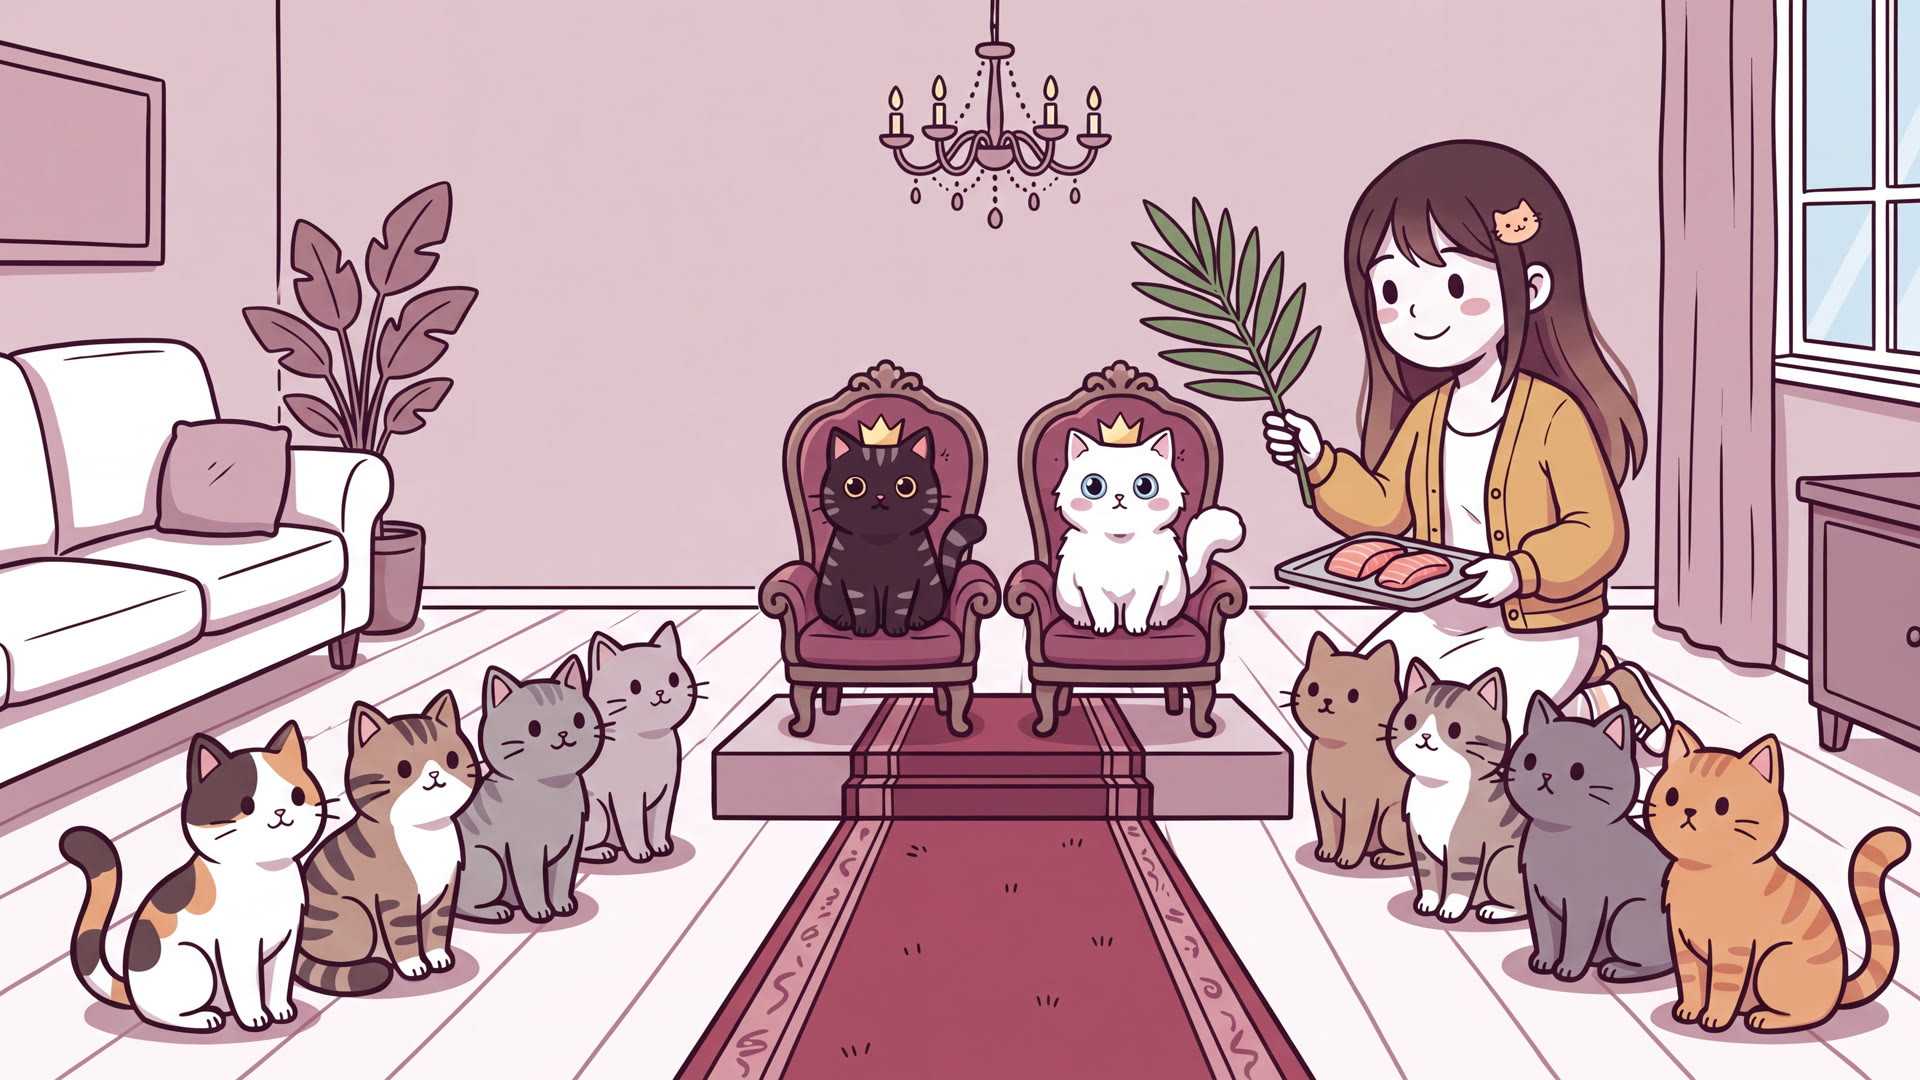
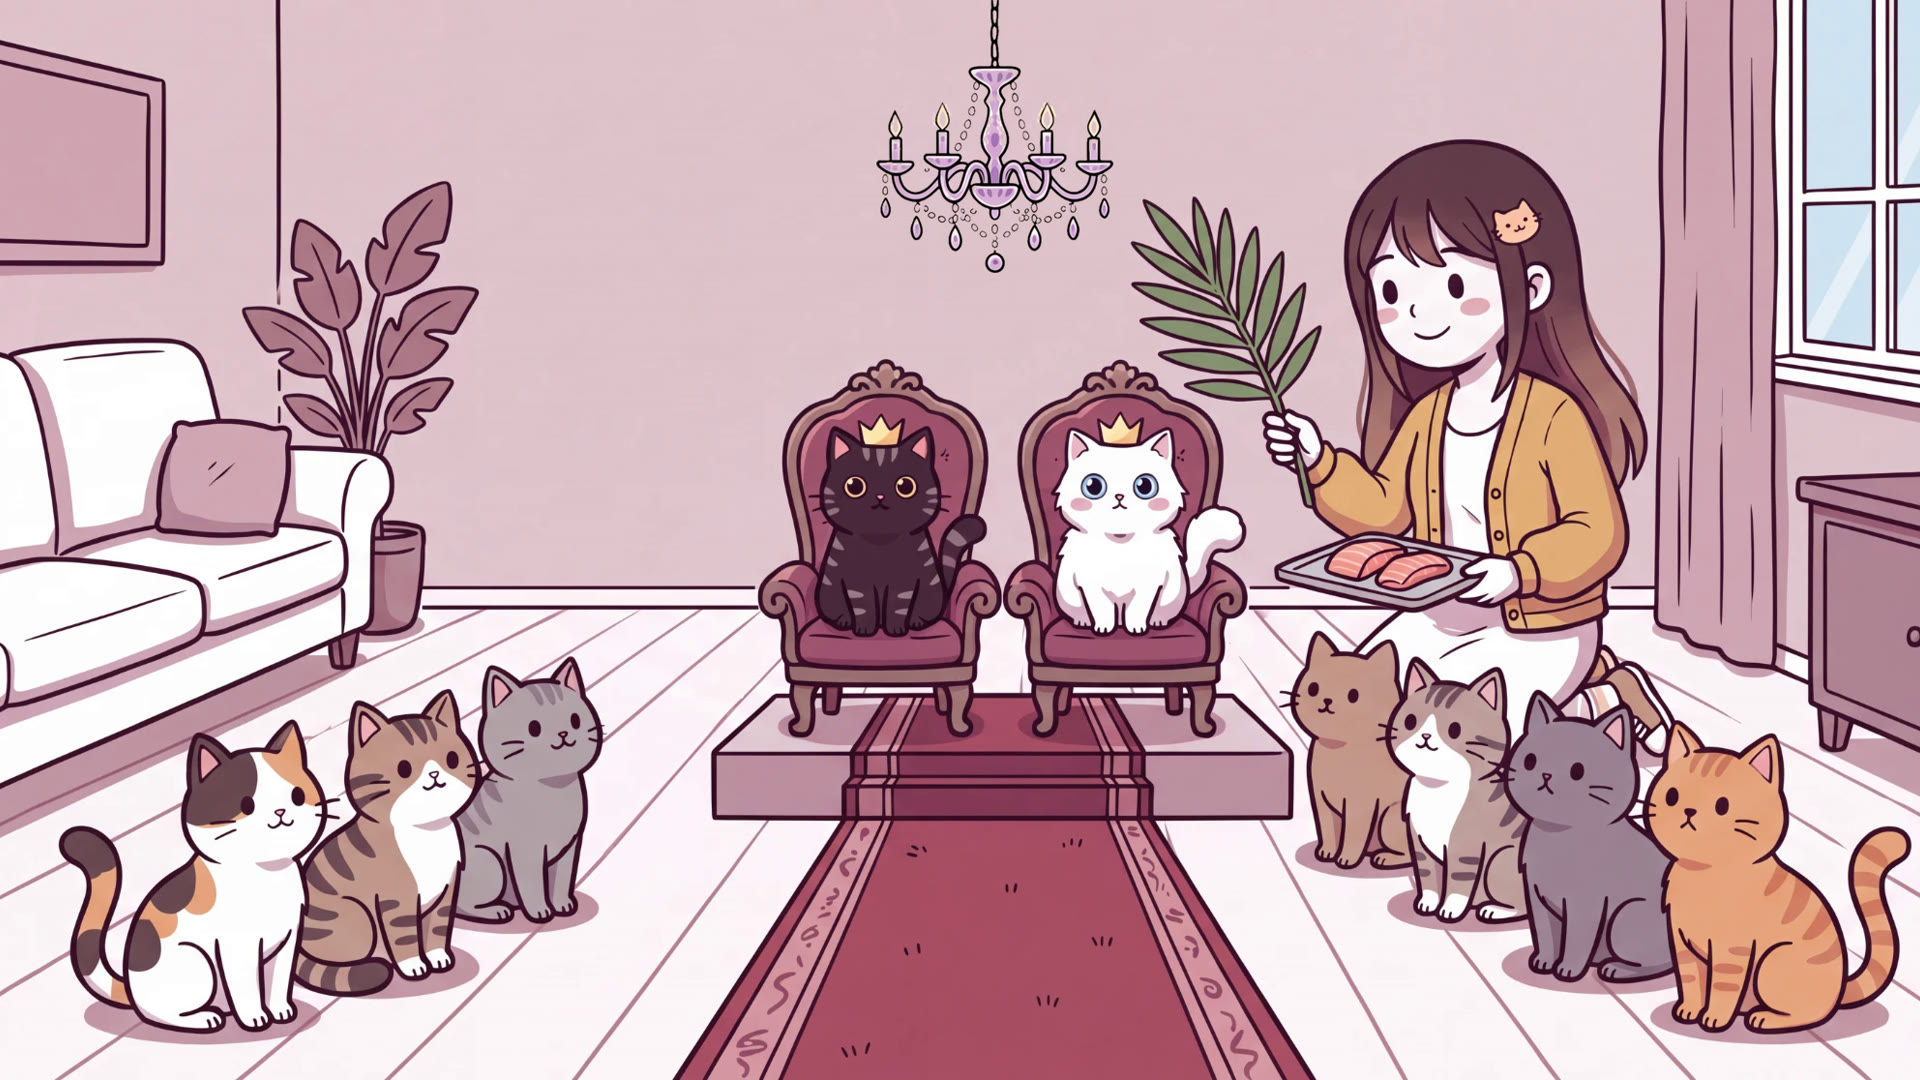
PC-04: seven-cat version with PC-05's crystal chandelier (local transplant, no credits); add tools/pc04_chandelier.py
Claude-Session: https://claude.ai/code/session_01Wfk5ePJ22LN7xs1AbjaDY5

Changed region(s): [[0.4375, 0.0, 0.5938, 0.2444], [0.2812, 0.5806, 0.375, 0.825]]

diff --git a/storyboard/tools/pc04_chandelier.py b/storyboard/tools/pc04_chandelier.py
@@ -1,0 +1,88 @@
+"""Give PC-04 the same chandelier as PC-05 (no Higgsfield credits).
+
+1. Cut PC-05's crystal chandelier out of its light cone: the cone behind it is rebuilt from a
+   clean row below the chandelier (the cone is a symmetric triangle, so each row is the same
+   profile scaled toward the apex), and the chandelier is whatever differs from that.
+2. Paint PC-04's own chandelier out of its flat wall (normalised blur of the surrounding wall).
+3. Paste the PC-05 chandelier there, scaled to the old one's width, chain to the ceiling.
+Positions are fractions of the frame, so the same script runs on screenshots or full files.
+
+usage: python3 -I pc04_chandelier.py PC-05.png PC-04.png OUT.png
+"""
+import sys
+import numpy as np
+from PIL import Image
+from scipy import ndimage as ndi
+
+p05, p04, outp = sys.argv[1:4]
+A = np.asarray(Image.open(p05).convert("RGB")).astype(np.float32)
+B = np.asarray(Image.open(p04).convert("RGB")).astype(np.float32)
+HA, WA, _ = A.shape
+HB, WB, _ = B.shape
+
+# --- 1. PC-05 chandelier with its background rebuilt -------------------------------------
+axis = 0.49991 * WA                          # mirror axis found for PC-05 (2751.5 / 5504)
+yt, yr = int(0.009 * HA), int(0.222 * HA)    # top of cone (under the border) / clean row below
+x0, x1 = int(0.448 * WA), int(0.552 * WA)    # chandelier box
+y0, y1 = int(0.012 * HA), int(0.205 * HA)  # start under the frame border
+
+def halfw(y):  # cone half-width grows linearly from the apex
+    return 0.0131 * WA + (0.0818 - 0.0131) * WA * (y - yt) / (0.2686 * HA - yt)
+
+ref = A[yr]
+bg = A.copy()
+xs = np.arange(WA, dtype=np.float32)
+for y in range(yt, y1 + 1):
+    src = axis + (xs - axis) * halfw(yr) / halfw(y)
+    for c in range(3):
+        bg[y, :, c] = np.interp(src, xs, ref[:, c])
+diff = np.abs(A - bg).max(2)
+L = A.mean(2)
+r, g, b = A[..., 0], A[..., 1], A[..., 2]
+ink = L < 45                                  # black outlines and chain
+crystal = (b - r > -12) & (L > 100)           # lavender glass (cone peach and the dark wall fail this)
+m = np.zeros((HA, WA), bool)
+m[y0:y1, x0:x1] = ((diff > 28) & (ink | crystal))[y0:y1, x0:x1]
+# candle flames are cream (g-b about 26-33, the cone about 18-20) and sit against the ink
+flame = (L > 200) & (g - b > 24) & ndi.binary_dilation(ink, iterations=max(3, WA // 900))
+m[y0:y1, x0:x1] |= flame[y0:y1, x0:x1]
+m = ndi.binary_closing(m, iterations=2)
+lab, n = ndi.label(m)  # drop stray specks; the bead garlands are tiny separate shapes, so keep small ones
+sizes = ndi.sum(m, lab, range(1, n + 1))
+m = np.isin(lab, 1 + np.where(sizes > 0.000002 * HA * WA)[0])
+# keep only pieces within reach of the chandelier body (beads hang close; cone-edge crumbs don't)
+grp, gn = ndi.label(ndi.binary_dilation(m, iterations=max(4, WA // 270)))
+m &= grp == 1 + np.argmax(ndi.sum(m, grp, range(1, gn + 1)))
+alpha = ndi.gaussian_filter(m.astype(np.float32), 0.8)
+ys, xs_ = np.where(m)
+cy0, cy1, cx0, cx1 = ys.min(), ys.max() + 1, xs_.min(), xs_.max() + 1
+chand = np.dstack([A[cy0:cy1, cx0:cx1], alpha[cy0:cy1, cx0:cx1] * 255]).astype(np.uint8)
+
+# --- 2. remove PC-04's chandelier from its flat wall -------------------------------------
+bx0, bx1, by0, by1 = int(0.452 * WB), int(0.584 * WB), 0, int(0.222 * HB)  # old chandelier box
+wall = np.median(B[int(0.25 * HB):int(0.30 * HB), int(0.44 * WB):int(0.56 * WB)].reshape(-1, 3), 0)
+mb = np.zeros((HB, WB), bool)
+mb[by0:by1, bx0:bx1] = np.abs(B[by0:by1, bx0:bx1] - wall).max(2) > 14
+mb = ndi.binary_dilation(mb, iterations=max(2, WB // 700))
+valid = np.ones((HB, WB), np.float32)
+valid[mb] = 0
+sig = WB / 120
+num = np.stack([ndi.gaussian_filter(B[..., c] * valid, sig) for c in range(3)], -1)
+den = ndi.gaussian_filter(valid, sig)[..., None] + 1e-6
+fill = num / den
+a2 = ndi.gaussian_filter(mb.astype(np.float32), 1.0)[..., None]
+out = B * (1 - a2) + fill * a2
+
+# --- 3. paste the PC-05 chandelier at the old one's size and place -----------------------
+ys, xs_ = np.where(mb)
+ox0, ox1, oy1 = xs_.min(), xs_.max(), ys.max()
+target_w = (ox1 - ox0) * 1.0
+scale = target_w / chand.shape[1]
+cw, ch = int(round(chand.shape[1] * scale)), int(round(chand.shape[0] * scale))
+im = Image.fromarray(chand, "RGBA").resize((cw, ch), Image.LANCZOS)
+px = int(round((ox0 + ox1) / 2 - cw / 2))
+py = 0  # chain hangs from the ceiling
+o = Image.fromarray(np.clip(out, 0, 255).astype(np.uint8)).convert("RGBA")
+o.alpha_composite(im, (px, py))
+o.convert("RGB").save(outp)
+print(f"PC-05 chandelier {cx1-cx0}x{cy1-cy0} -> {cw}x{ch} at ({px},{py}) in PC-04 {WB}x{HB}")
